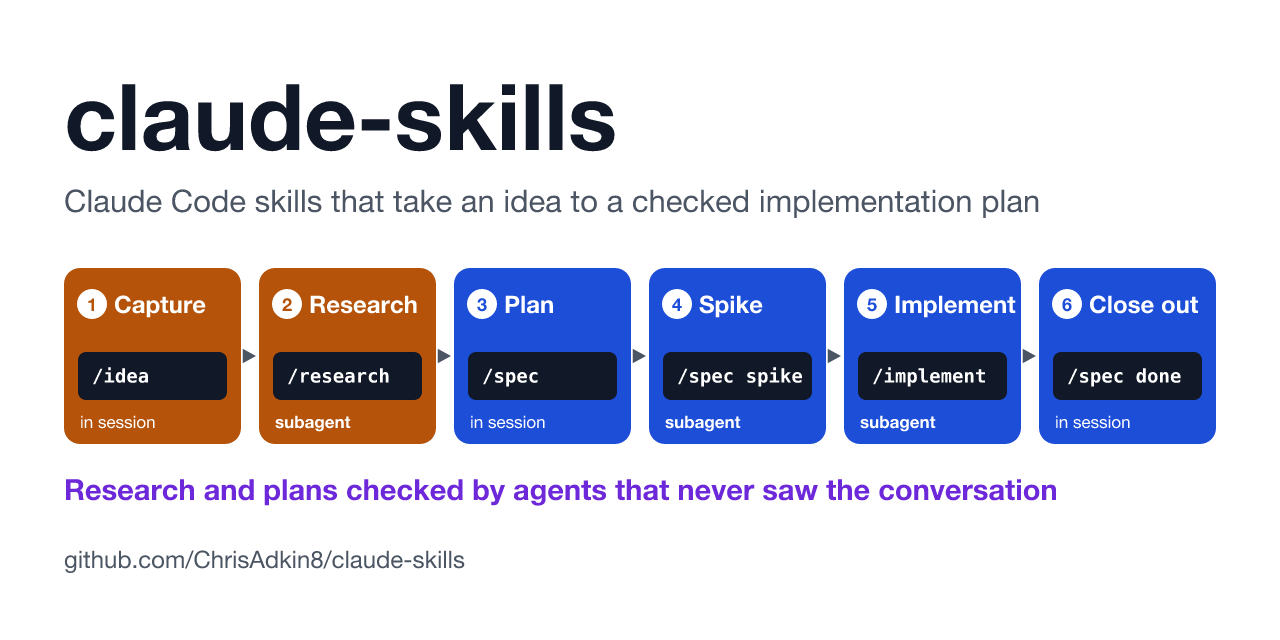
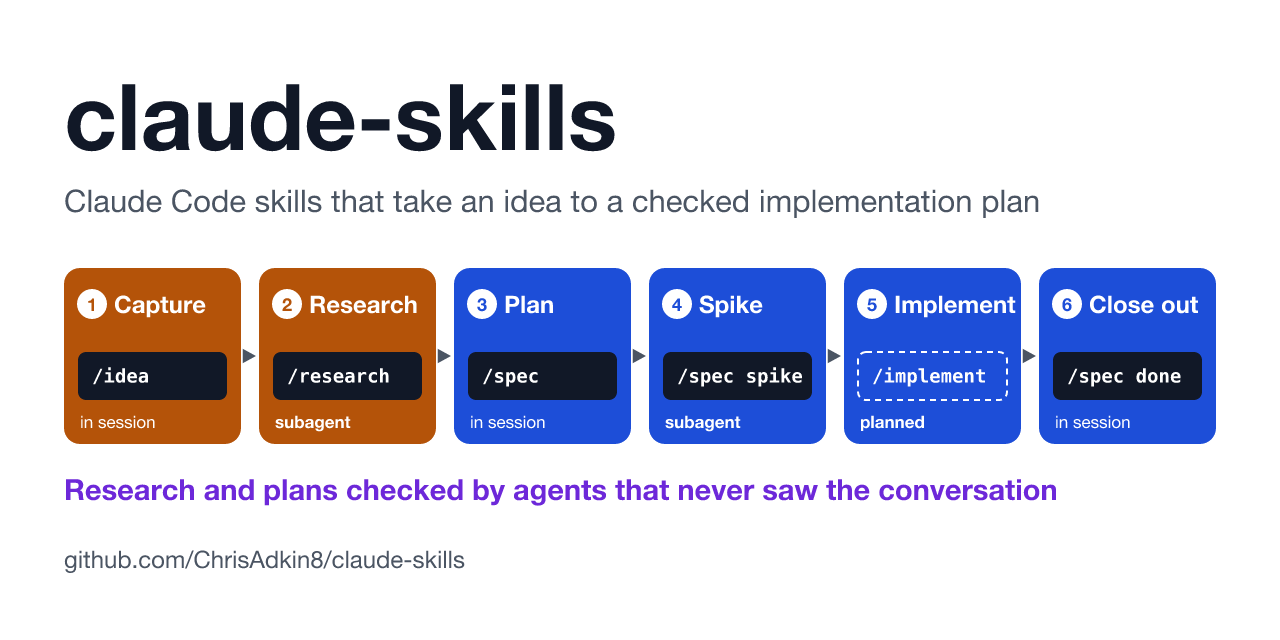
readme: /implement is drawn as planned, the alt text is current, full-size links
The diagram draws /implement's command dashed with "planned" under it,
and How to read it says what a dashed command means. The alt text covers
the subagent lines, the index rebuild and /implement being planned. A line
under the diagram links the full-size light and dark versions for phones.

Changed region(s): [[0.6562, 0.5312, 0.8125, 0.625], [0.6562, 0.6562, 0.75, 0.6875]]

diff --git a/docs/diagram/workflow.py b/docs/diagram/workflow.py
@@ -28,7 +28,8 @@ MONO = "Menlo, Monaco, monospace"
 
 # ------------------------------------------------------------------ content
 # (number, title, colour key, command or None for a new session, what happens, output,
-#  whether its work runs in a subagent: a separate headless session)
+#  whether its work runs in a subagent: a separate headless session, and whether its command
+#  is only planned, not built yet: drawn dashed)
 STAGES = [
     (1, "Capture", "notes", "/idea", "Save the idea as a note", "~/notes/ideas/", False),
     (
@@ -58,6 +59,7 @@ STAGES = [
         "Implement the spec, W1 first, test first; a verifier re-runs the checks",
         "implement/ branch",
         True,
+        True,
     ),
     (
         6,
@@ -81,6 +83,17 @@ LOOP_BACK = "Research proved wrong? Update the note"
 # The line under each stage's command, saying where its work runs.
 RUNS = {True: "work runs in a subagent", False: "runs in your session"}
 RUNS_SHORT = {True: "subagent", False: "in session"}
+RUNS_PLANNED, RUNS_PLANNED_SHORT = "planned: in a subagent", "planned"
+
+
+def planned(st):
+    return len(st) > 7 and st[7]
+
+
+def runs(st, short=False):
+    if planned(st):
+        return RUNS_PLANNED_SHORT if short else RUNS_PLANNED
+    return (RUNS_SHORT if short else RUNS)[st[6]]
 QUICK = [("/spec quick", True), (" skips review and spikes", False)]
 DELTA_HEAD = "Spec edited after its review?"
 DELTA_BODY = [
@@ -261,7 +274,19 @@ class Canvas:
 
     # shared pieces
     def pill(self, x, y, w, h, stage, key, size=19.0):
-        if stage[3]:
+        if stage[3] and planned(stage):
+            ink = "#FFFFFF" if key == "block" else self.t["pill"]
+            self.rect(x, y, w, h, "none", stroke=ink, r=8, sw=2, dash="6 5")
+            self.text(
+                x + 14,
+                y + h / 2 + size * 0.35,
+                stage[3],
+                size=size,
+                fill=ink,
+                mono=True,
+                weight="bold",
+            )
+        elif stage[3]:
             self.rect(x, y, w, h, "#111827" if key == "block" else self.t["pill"], r=8)
             self.text(
                 x + 14,
@@ -401,7 +426,7 @@ def wide(theme):
         c.number(x + 30, TOP + 26, st[0], key)
         c.text(x + 56, TOP + 35, st[1], size=24, fill="#FFFFFF", weight="bold")
         c.pill(x + PAD, TOP + 72, IW, 42, st, "card")
-        c.text(x + PAD, TOP + 138, RUNS[st[6]], size=16, fill=t["muted"], weight="bold" if st[6] else "normal")
+        c.text(x + PAD, TOP + 138, runs(st), size=16, fill=t["muted"], weight="bold" if st[6] else "normal")
         c.lines(x + PAD, BODY_Y, bodies[i], size=19, lh=25)
         c.output(x + PAD, CARD_B - 64 - 18, IW, 64, key, st[5])
     for i in range(5):
@@ -572,7 +597,7 @@ def narrow(theme):
         c.number(RX + 30, y + 30, n, key)
         c.text(RX + 56, y + 38, st[1], size=22, fill="#FFFFFF", weight="bold")
         c.pill(RX + 16, y + 54, BW - 32, 34, st, "block", size=17)
-        c.text(RX + 16, y + 110, RUNS[st[6]], size=15, fill="#FFFFFF", weight="bold" if st[6] else "normal")
+        c.text(RX + 16, y + 110, runs(st), size=15, fill="#FFFFFF", weight="bold" if st[6] else "normal")
         c.lines(DX, y + 40, body, size=19, lh=25)
         c.output(RX + RW - OW - 16, y + 18, OW, 64, key, st[5], size=15)
         if chips:
@@ -733,7 +758,7 @@ def social(theme):
         c.number(x + 28, TOP + 36, st[0], key)
         c.text(x + 50, TOP + 45, st[1], size=24, fill="#FFFFFF", weight="bold")
         c.pill(x + 14, TOP + 84, BW - 28, 48, st, "block", size=19)
-        c.text(x + 16, TOP + 160, RUNS_SHORT[st[6]], size=17, fill="#FFFFFF", weight="bold" if st[6] else "normal")
+        c.text(x + 16, TOP + 160, runs(st, short=True), size=17, fill="#FFFFFF", weight="bold" if st[6] else "normal")
         if i < 5:
             ay = TOP + BH / 2
             c.arrow([(x + BW + 3, ay), (x + BW + GAP - 3, ay)], t["muted"], width=3)

diff --git a/README.md b/README.md
@@ -37,15 +37,19 @@ apart: it gives any markdown file the same cold review `/spec` gives a spec. Not
 
 <picture>
   <source media="(prefers-color-scheme: dark)" srcset="docs/workflow-narrow-dark.png">
-  <img src="docs/workflow-narrow.png" alt="Workflow diagram. Six stages run in order: Capture with /idea, Research with /research,
-Plan with /spec, Spike with /spec spike, Implement with /implement, and Close out with /spec done.
-A research-verifier checks the research; check-spec.py, a spec-verifier and a cold-reviewer check
-the spec. /spec quick skips the review and spikes, a spec edited after its review gets a delta
-review before Implement, and an implementation that overturns the research loops back to update the
-note. A band shows /cold-review's five steps for any markdown document, and another shows how every
-agent is contained: its own headless session, an OS sandbox, a guard hook and cost
-caps.">
+  <img src="docs/workflow-narrow.png" alt="Workflow diagram. Six stages run in order: Capture with /idea, Research with /research, Plan with
+/spec, Spike with /spec spike, Implement with /implement (planned, not built yet), and Close out
+with /spec done. Under each command, a line says whether the stage's work runs in your session or in
+a subagent: Research, Spike and Implement use subagents. Research also rebuilds the notes index; a
+research-verifier checks its key claims, and check-spec.py, a spec-verifier and a cold-reviewer
+check the spec. /spec quick skips the review and spikes, a spec edited after its review gets a delta
+review before Implement, and research proved wrong loops back to update the note. A band shows
+/cold-review's five steps for any markdown document, and another shows how every agent is contained:
+its own headless session, an OS sandbox, a guard hook and cost caps.">
 </picture>
+
+Full size, easier to read on a phone: [light](docs/workflow.png) or
+[dark](docs/workflow-dark.png).
 
 How to read it:
 
@@ -55,6 +59,7 @@ How to read it:
   separate headless Claude session that hasn't seen your conversation.
 - Purple boxes are the agents and scripts that check the work.
 - The pink box is a check that runs only if the spec was edited after its cold review.
+- A dashed command box is planned, not built yet.
 - Dashed lines are shortcuts and loops off the main path.
 - The two bands at the bottom cover `/cold-review` and the limits every agent runs under.
 

diff --git a/records/README-record.md b/records/README-record.md
@@ -81,3 +81,4 @@ Needs a run: none
 - Not reviewed: View the notes as a mind map says notes with no topic or no research note go under Unfiled, from the README delta review (2026-09-27) row 8, on 2026-09-27.
 - Not reviewed: stage 5 is renamed from Build to Implement in the stage list, the worked example, Close out and the diagram's alt text, and 'build' becomes 'implement' where it meant that stage; the diagram's loop-back label now reads 'Research proved wrong? Update the note', on 2026-09-27.
 - Not reviewed: the diagram's stage 5 shows `/implement`, each stage says whether its work runs in your session or in a subagent, and the New Claude session colour is gone; How to read it explains the subagent line; stage 5 in the list names `/implement` as planned, with what it will do and what to do until it lands, on 2026-09-27.
+- Not reviewed: the diagram draws `/implement`'s command box dashed and says "planned" under it; How to read it explains dashed command boxes; the alt text now covers the subagent lines, the index rebuild and `/implement` being planned; a line under the diagram links the full-size light and dark versions, on 2026-09-27.
